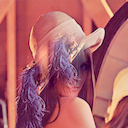
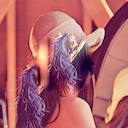
LTCircularPatchProcessor: add patch parameters.
Adding alpha that controls how much membrane smoothing will we use.
Also adding flip option.

Changed region(s): [[0.25, 0.25, 0.75, 0.75]]

diff --git a/LTKit/LTKit/LTCircularPatchProcessor.mm b/LTKit/LTKit/LTCircularPatchProcessor.mm
@@ -38,10 +38,16 @@
 
 - (void)drawWithPlacement:(LTNextIterationPlacement *)placement {
   [self updateDrawerColors];
-  CGPoint sourceCenter = self.circularPatchMode != LTCircularPatchModeHeal ?
-      self.sourceCenter : self.targetCenter;
-  [self.drawer drawRect:[self rectFromCenter:self.targetCenter] inFramebuffer:placement.targetFbo
-               fromRect:[self rectFromCenter:sourceCenter]];
+
+  [self.inputTexture executeAndPreserveParameters:^{
+    self.inputTexture.minFilterInterpolation = LTTextureInterpolationNearest;
+    self.inputTexture.magFilterInterpolation = LTTextureInterpolationNearest;
+
+    CGPoint sourceCenter = self.circularPatchMode != LTCircularPatchModeHeal ?
+        self.sourceCenter : self.targetCenter;
+    [self.drawer drawRect:[self rectFromCenter:self.targetCenter] inFramebuffer:placement.targetFbo
+                 fromRect:[self rectFromCenter:sourceCenter]];
+  }];
 }
 
 - (CGRect)rectFromCenter:(CGPoint)center {
@@ -89,7 +95,7 @@
   LTVector4s boundaryTargetVerticesColor =
       [self colorUsingVertices:boundaryVertices center:self.targetCenter];
   LTVector4s boundarySourceVerticesColor =
-      [self colorUsingVerticesWithRotation:boundaryVertices center:self.sourceCenter];
+      [self colorUsingVerticesWithRotationAndFlip:boundaryVertices center:self.sourceCenter];
   for (LTVector4s::size_type index = 0; index < boundaryVertices.size(); ++index) {
     membraneColors[self.model.firstBoundaryVertexIndex + index] =
         boundaryTargetVerticesColor[index] - boundarySourceVerticesColor[index];
@@ -178,13 +184,16 @@ static const NSUInteger kInLevelAveragingCount = 5;
   return [self.inputTexture pixelValues:verticesAsPoints];
 }
 
-- (LTVector4s)colorUsingVerticesWithRotation:(const LTVector2s &)vertices center:(CGPoint)center {
+- (LTVector4s)colorUsingVerticesWithRotationAndFlip:(const LTVector2s &)vertices
+                                             center:(CGPoint)center {
   CGPoints verticesAsPoints(vertices.size());
   CGAffineTransform translateTransform = CGAffineTransformMakeTranslation(center.x, center.y);
   CGAffineTransform rotationTransform = CGAffineTransformMakeRotation(-self.rotation);
+  CGAffineTransform flipTransform = CGAffineTransformMakeScale(self.flip ? -1 : 1, 1);
   CGAffineTransform rotationAroundPointTransform =
       CGAffineTransformConcat(CGAffineTransformConcat(
-      CGAffineTransformInvert(translateTransform), rotationTransform), translateTransform);
+      CGAffineTransformInvert(translateTransform),
+      CGAffineTransformConcat(flipTransform, rotationTransform)), translateTransform);
 
   for (CGPoints::size_type index = 0; index < vertices.size(); ++index) {
     CGPoint vertex = center + (CGPoint)vertices[index] * self.radius;
@@ -194,13 +203,15 @@ static const NSUInteger kInLevelAveragingCount = 5;
 }
 
 // All vertices above this level are constrained to have alpha = 1.
-static const NSUInteger kMaxLevelOfNonOpaqueVertex = 6;
+static const CGFloat kMaxLevelOfNonOpaqueVertex = 6;
 
 // Alpha for boundary vertices.
 static const CGFloat kBoundaryAlpha = 0.1;
 
 - (void)updateMembraneColorsAlpha:(LTVector4s &)membraneColors {
-  CGFloat featheringNonOpaqueVertex = (1 - self.featheringAlpha) * kMaxLevelOfNonOpaqueVertex;
+  CGFloat featheringNonOpaqueVertex =
+      kMaxLevelOfNonOpaqueVertex * (1 - self.featheringAlpha) + self.featheringAlpha;
+
   for (NSUInteger level = self.model.numberOfVertexLevels - 1; level > 0; --level) {
     CGFloat t = (level - featheringNonOpaqueVertex) /
         (self.model.numberOfVertexLevels - 1 - featheringNonOpaqueVertex);
@@ -237,7 +248,7 @@ static const CGFloat kBoundaryAlpha = 0.1;
   NSUInteger minErrorIndex = NSNotFound;
   for (CGPoints::size_type i = 0; i < sourceCenters.size(); ++i) {
     LTVector4s boundarySourceColors =
-        [self colorUsingVerticesWithRotation:boundaryVertices center:sourceCenters[i]];
+        [self colorUsingVerticesWithRotationAndFlip:boundaryVertices center:sourceCenters[i]];
     CGFloat error = [self boundaryErrorForBoundarySourceColors:boundarySourceColors
                                           boundaryTargetColors:boundaryTargetColors];
     if (error < minError) {
@@ -265,9 +276,19 @@ static const CGFloat kBoundaryAlpha = 0.1;
 #pragma mark -
 
 LTProperty(CGFloat, radius, Radius, 0, CGFLOAT_MAX, 0);
-LTProperty(CGFloat, featheringAlpha, FeatheringAlpha, 0, 1, 1);
+LTProperty(CGFloat, featheringAlpha, FeatheringAlpha, 0, 1, 0);
 LTPropertyProxy(CGFloat, alpha, Alpha, self.drawer, alpha, Alpha);
+LTPropertyProxy(CGFloat, smoothingAlpha, SmoothingAlpha, self.drawer, smoothingAlpha,
+                SmoothingAlpha);
 LTPropertyProxy(CGFloat, rotation, Rotation, self.drawer, rotation, Rotation);
+
+- (BOOL)flip {
+  return self.drawer.flip;
+}
+
+- (void)setFlip:(BOOL)flip {
+  self.drawer.flip = flip;
+}
 
 - (LTCircularPatchMode)circularPatchMode {
   return self.drawer.circularPatchMode;

diff --git a/LTKit/LTKitTests/LTCircularPatchDrawerSpec.mm b/LTKit/LTKitTests/LTCircularPatchDrawerSpec.mm
@@ -109,6 +109,19 @@ context(@"drawing", ^{
     expect($(outputTexture.image)).to.equalMat($(expected));
   });
 
+  it(@"should draw flipped", ^{
+    CGPoint sourceOrigin = CGPointMake(textureSize.width * 0.25, textureSize.height * 0.25);
+    CGPoint targetOrigin = CGPointMake(textureSize.width * 0.5, textureSize.height * 0.5);
+    CGSize size = textureSize / 4;
+    CGRect sourceRect = CGRectFromOriginAndSize(sourceOrigin, size);
+    CGRect targetRect = CGRectFromOriginAndSize(targetOrigin, size);
+    drawer.flip = YES;
+    [drawer drawRect:targetRect inFramebuffer:fbo fromRect:sourceRect];
+    
+    cv::Mat expected = LTLoadMat([self class], @"CircularPatchDrawerFlipped.png");
+    expect($(outputTexture.image)).to.equalMat($(expected));
+  });
+
   it(@"should draw with colors", ^{
     CGPoint sourceOrigin = CGPointMake(textureSize.width * 0.3, textureSize.height * 0.3);
     CGPoint targetOrigin = CGPointMake(textureSize.width * 0.6, textureSize.height * 0.6);
@@ -119,7 +132,24 @@ context(@"drawing", ^{
     std::fill(colors.begin(), colors.end(), LTVector4(1, 0, 0, 1));
     drawer.membraneColors = colors;
     [drawer drawRect:targetRect inFramebuffer:fbo fromRect:sourceRect];
+
     cv::Mat expected = LTLoadMat([self class], @"CircularPatchDrawerColors.png");
+    expect($(outputTexture.image)).to.equalMat($(expected));
+  });
+
+  it(@"should draw with smoothing alpha", ^{
+    CGPoint sourceOrigin = CGPointMake(textureSize.width * 0.3, textureSize.height * 0.3);
+    CGPoint targetOrigin = CGPointMake(textureSize.width * 0.6, textureSize.height * 0.6);
+    CGSize size = textureSize / 3;
+    CGRect sourceRect = CGRectFromOriginAndSize(sourceOrigin, size);
+    CGRect targetRect = CGRectFromOriginAndSize(targetOrigin, size);
+    LTVector4s colors(drawer.circularMeshModel.numberOfVertices);
+    std::fill(colors.begin(), colors.end(), LTVector4(1, 0, 0, 1));
+    drawer.membraneColors = colors;
+    drawer.smoothingAlpha = 0.2;
+    [drawer drawRect:targetRect inFramebuffer:fbo fromRect:sourceRect];
+
+    cv::Mat expected = LTLoadMat([self class], @"CircularPatchDrawerSmoothingAlpha.png");
     expect($(outputTexture.image)).to.equalMat($(expected));
   });
 

diff --git a/LTKit/LTKitTests/LTCircularPatchProcessorSpec.mm b/LTKit/LTKitTests/LTCircularPatchProcessorSpec.mm
@@ -97,6 +97,17 @@ context(@"process patch", ^{
     cv::Mat4b expected = LTLoadMat([self class], @"CircularPatchFeathering.png");;
     expect($(outputTexture.image)).to.beCloseToMatWithin($(expected), 2);
   });
+
+  it(@"should patch with flip", ^{
+    processor.sourceCenter = CGPointMake(textureSize.width * 0.6, textureSize.height * 0.6);
+    processor.targetCenter = CGPointMake(textureSize.width * 0.3, textureSize.height * 0.3);
+    processor.radius = textureSize.width / 4;
+    processor.flip = YES;
+    [processor process];
+
+    cv::Mat4b expected = LTLoadMat([self class], @"CircularPatchFlipped.png");;
+    expect($(outputTexture.image)).to.beCloseToMatWithin($(expected), 2);
+  });
 });
 
 context(@"process heal", ^{
@@ -256,12 +267,7 @@ context(@"synthetic input texture", ^{
     inputMat(cv::Rect(textureSize.width / 2, textureSize.height / 2, textureSize.width / 2,
                       textureSize.height / 2)).setTo(kBlack);
     inputTexture = [LTTexture textureWithImage:inputMat];
-    inputTexture.magFilterInterpolation = LTTextureInterpolationNearest;
-    inputTexture.minFilterInterpolation = LTTextureInterpolationNearest;
-
     outputTexture = [LTTexture textureWithImage:inputMat];
-    outputTexture.magFilterInterpolation = LTTextureInterpolationNearest;
-    outputTexture.minFilterInterpolation = LTTextureInterpolationNearest;
 
     processor = [[LTCircularPatchProcessor alloc] initWithInput:inputTexture output:outputTexture];
   });

diff --git a/LTKit/LTKit/LTCircularPatchDrawer.mm b/LTKit/LTKit/LTCircularPatchDrawer.mm
@@ -72,10 +72,15 @@ typedef std::vector<LTCircularPatchDrawerColor> LTCircularPatchDrawerColors;
   if (self = [super initWithProgram:[self createProgramWithFactory:programFactory]
                       sourceTexture:sourceTexture]) {
     self.indicesArray = [self createIndicesArray];
-    self[[LTCircularPatchFsh alpha]] = @(self.defaultAlpha);
-    self.program[[LTCircularPatchFsh isCircularPatchModeHeal]] = @NO;
+    [self setDefaultUniforms];
   }
   return self;
+}
+
+- (void)setDefaultUniforms {
+  self.program[[LTCircularPatchFsh alpha]] = @(self.defaultAlpha);
+  self.program[[LTCircularPatchFsh smoothingAlpha]] = @(self.defaultSmoothingAlpha);
+  self.program[[LTCircularPatchFsh isCircularPatchModeHeal]] = @NO;
 }
 
 - (LTProgram *)createProgramWithFactory:(id<LTProgramFactory>)programFactory {
@@ -218,6 +223,17 @@ LTPropertyWithoutSetter(CGFloat, alpha, Alpha, 0, 1, 1);
 - (void)setAlpha:(CGFloat)alpha {
   [self _verifyAndSetAlpha:alpha];
   self.program[[LTCircularPatchFsh alpha]] = @(alpha);
+}
+
+LTPropertyWithoutSetter(CGFloat, smoothingAlpha, SmoothingAlpha, 0, 1, 1);
+- (void)setSmoothingAlpha:(CGFloat)smoothingAlpha {
+  [self _verifyAndSetSmoothingAlpha:smoothingAlpha];
+  self.program[[LTCircularPatchFsh smoothingAlpha]] = @(smoothingAlpha);
+}
+
+- (void)setFlip:(BOOL)flip {
+  _flip = flip;
+  self.program[[LTCircularPatchVsh flip]] = @(flip);
 }
 
 - (LTCircularMeshModel *)circularMeshModel {

diff --git a/LTKit/LTKit/LTCircularPatchProcessor.h b/LTKit/LTKit/LTCircularPatchProcessor.h
@@ -36,8 +36,11 @@ LTPropertyDeclare(CGFloat, radius, Radius);
 @property (nonatomic) CGFloat rotation;
 LTPropertyDeclare(CGFloat, rotation, Rotation);
 
-/// Controls the amount of feathering of the membrane. Default value is \c 1, which means light
-/// feathering. Lower alpha value means target patch will have higher weight.
+/// Flips horizontally the source patch.
+@property (nonatomic) BOOL flip;
+
+/// Controls the amount of feathering of the membrane. Default value is \c 0, which means light
+/// feathering. Higher alpha value means stronger feathering.
 @property (nonatomic) CGFloat featheringAlpha;
 LTPropertyDeclare(CGFloat, featheringAlpha, FeatheringAlpha);
 
@@ -45,5 +48,11 @@ LTPropertyDeclare(CGFloat, featheringAlpha, FeatheringAlpha);
 /// blended.
 @property (nonatomic) CGFloat alpha;
 LTPropertyDeclare(CGFloat, alpha, Alpha);
+
+/// Modulates the source smoothing. Value of \c 1 means fully smoothed, which gives seamless
+/// patching effect. Value of \c 0 means pixels from the source are simply copied without any
+/// smoothing. Default value is \c 1.
+@property (nonatomic) CGFloat smoothingAlpha;
+LTPropertyDeclare(CGFloat, smoothingAlpha, SmoothingAlpha);
 
 @end

diff --git a/LTKit/LTKit/LTCircularPatchDrawer.h b/LTKit/LTKit/LTCircularPatchDrawer.h
@@ -42,9 +42,18 @@ typedef NS_ENUM(NSUInteger, LTCircularPatchMode) {
 @property (nonatomic) CGFloat rotation;
 LTPropertyDeclare(CGFloat, rotation, Rotation);
 
+/// Flips horizontally the source patch.
+@property (nonatomic) BOOL flip;
+
 /// Blends source and target patches using \c alpha in the range of [0, 1]. Default value is \c 1,
 /// which means fully blended.
 @property (nonatomic) CGFloat alpha;
 LTPropertyDeclare(CGFloat, alpha, Alpha);
+
+/// Modulates the source smoothing. Value of \c 1 means fully smoothed, which gives seamless
+/// patching effect. Value of \c 0 means pixels from the source are simply copied without any
+/// smoothing. Default value is \c 1.
+@property (nonatomic) CGFloat smoothingAlpha;
+LTPropertyDeclare(CGFloat, smoothingAlpha, SmoothingAlpha);
 
 @end
